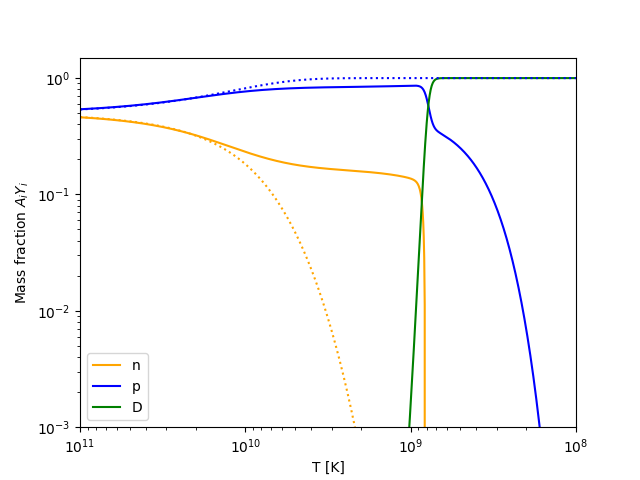
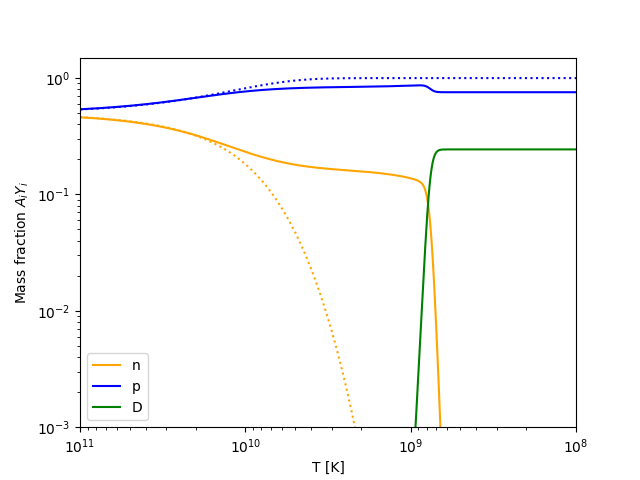
adding reaction rates

diff --git a/project 2/reaction_rates.py b/project 2/reaction_rates.py
@@ -11,7 +11,9 @@ class ReactionRates:
 
     def get_rate_weak(self, T9):
         """
-        T = T9
+        n + nu_e <-> p + e-
+        n + e+ <-> p + anti nu_e
+        n <-> p + e- + anti nu_e
         """
         T_nu = (4/11)**(1/3) * T9
         tau = 1700 # [s] free neutron decay time
@@ -34,17 +36,127 @@ class ReactionRates:
     # Strong reactions:
 
     def get_np_to_D(self, T9, rho_b):
+        """
+        p + n <-> D + gamma
+        """
         rate_np = 2.5e4 * rho_b
         rate_D = 4.68e9 * rate_np * T9**(3/2) * np.exp(-25.82/T9) / rho_b
 
         return rate_np, rate_D
 
     def get_nD_to_T(self, T9, rho_b):
+        """
+        n + D <-> T + gamma
+        """
         rate_nD = rho_b * (75.5 + 1250 * T9)
         rate_T = 1.63e10 * rate_nD * T9**(3/2) * np.exp(-72.62/T9) / rho_b
 
         return rate_nD, rate_T
     
     def get_DD_to_pT(self, T9, rho_b):
-        ...
+        """
+        D + D <-> p + T
+        """
+        rate_DD = 3.9e8 * rho_b * T9**(-2/3) * np.exp(-4.26 * T9**(-1/3)) * (1 + 0.0979 * T9**(1/3) + 0.642 * T9**(2/3) + 0.44 * T9)
+        rate_n_He3 = 1.73 * rate_DD * np.exp(-37.94 / T9)
 
+        return rate_DD, rate_n_He3
+    
+    def get_pD_to_He3(self, T9, rho_b):
+        """
+        p + D <-> He^3 + gamma
+        """
+        rate_pD = 2.23e3 * rho_b * T9**(-2/3) * np.exp(-3.72 * T9**(-1/3)) * (1 + 0.112 * T9**(1/3) + 3.38 * T9**(2/3) + 2.65 * T9)
+        rate_He3 = 1.63e10 * rate_pD * T9**(3/3) * np.exp(-63.75 / T9) / rho_b
+
+        return
+    
+    def get_nHe3_to_pT(self, T9, rho_b):
+        """
+        
+        """
+        rate_pD = ...
+        rate_He3 = ...
+        
+        return
+    
+    def get_pT_to_He4(self, T9, rho_b):
+        rate_pD = ...
+        rate_He3 = ...
+        
+        return
+    
+    def get_nHe3_to_He4(self, T9, rho_b):
+        rate_pD = ...
+        rate_He3 = ...
+        
+        return
+    
+    def get_DD_to_nHe3(self, T9, rho_b):
+        rate_pD = ...
+        rate_He3 = ...
+        
+        return
+    
+    def get_DD_to_He4(self, T9, rho_b):
+        rate_pD = ...
+        rate_He3 = ...
+        
+        return
+    
+    def get_DHe3_to_He4p(self, T9, rho_b):
+        rate_pD = ...
+        rate_He3 = ...
+        
+        return
+    
+    def get_DT_to_He4n(self, T9, rho_b):
+        rate_pD = ...
+        rate_He3 = ...
+        
+        return
+
+    def get_He3T_to_He4D(self, T9, rho_b):
+        rate_pD = ...
+        rate_He3 = ...
+        
+        return
+    
+    def get_He3He4_to_Be7(self, T9, rho_b):
+        rate_pD = ...
+        rate_He3 = ...
+        
+        return
+    
+    def get_THe4_to_Li7(self, T9, rho_b):
+        rate_pD = ...
+        rate_He3 = ...
+        
+        return
+        
+    def get_nBe7_to_pLi7(self, T9, rho_b):
+        """
+        n + Be^7 <-> p + Li^7
+        """
+        rate_nBe7 = 6.74e9 * rho_b
+        rate_pLi7 = rate_nBe7 * np.exp(-19.07 / T9)
+        
+        return rate_nBe7, rate_pLi7
+    
+    def get_pLi7_to_2He4(self, T9, rho_b):
+        """
+        p + Li^7 <-> He^4 + He^4
+        """
+        rate_pLi7 = 1.42e9 * rho_b * T9**(-2/3) * np.exp(-8.47 * T9**(-1/3)) * (1 + 0.0493 * T9**(1/3))
+        rate_2He4 = 4.64 * rate_pLi7 * np.exp(-201.3 / T9)
+        
+        return rate_pLi7, rate_2He4
+    
+    def get_nBe7_to_2He4(self, T9, rho_b):
+        """
+        n + Be^7 <-> He^4 + He^4
+        """
+        rate_nBe7 = 1.2e7 * rho_b * T9
+        rate_2He4 = 4.64 * rate_nBe7 * np.exp(-220.4 / T9)
+        
+        return rate_nBe7, rate_2He4

diff --git a/project 2/question_i.py b/project 2/question_i.py
@@ -1,3 +1,20 @@
 import matplotlib.pyplot as plt
 from BBN import BBN
 
+bbn = BBN(NR_interacting_species = 8)
+bbn.solve_BBN(T_init=100e9, T_end=0.01e9) # solve the system until end temperature 0.1e9 K
+
+# Plot the mass fraction for each species :
+colors = ["orange", "blue", "green", "red", "purple", "brown", "pink", "gray"]
+fig, ax = plt.subplots()
+for i, y in enumerate(bbn.Y_i):
+    ax.loglog(bbn.T, bbn.mass_number[i] * y, label=bbn.species_labels[i], color=colors[i])
+
+ax.legend()
+ax.invert_xaxis()
+ax.set_ylim([1e-3, 1.5])
+ax.set_xlim([1e11, 1e8])
+ax.set_ylabel("Mass fraction")
+ax.set_xlabel("T [K]")
+fig.savefig("i_mass_frac.png")
+plt.show()

diff --git a/project 2/question_h.py b/project 2/question_h.py
@@ -22,7 +22,4 @@ ax.set_xlabel("T [K]")
 fig.savefig("h_mass_frac.png")
 plt.show()
 
-"""
-Question: noe galt med init??
-også spør om BBN 64-66
-"""
+

diff --git a/project 2/question_f.py b/project 2/question_f.py
@@ -26,4 +26,5 @@ plt.show()
 
 """
 Question: overflow....
+også spør om BBN 64-66
 """
